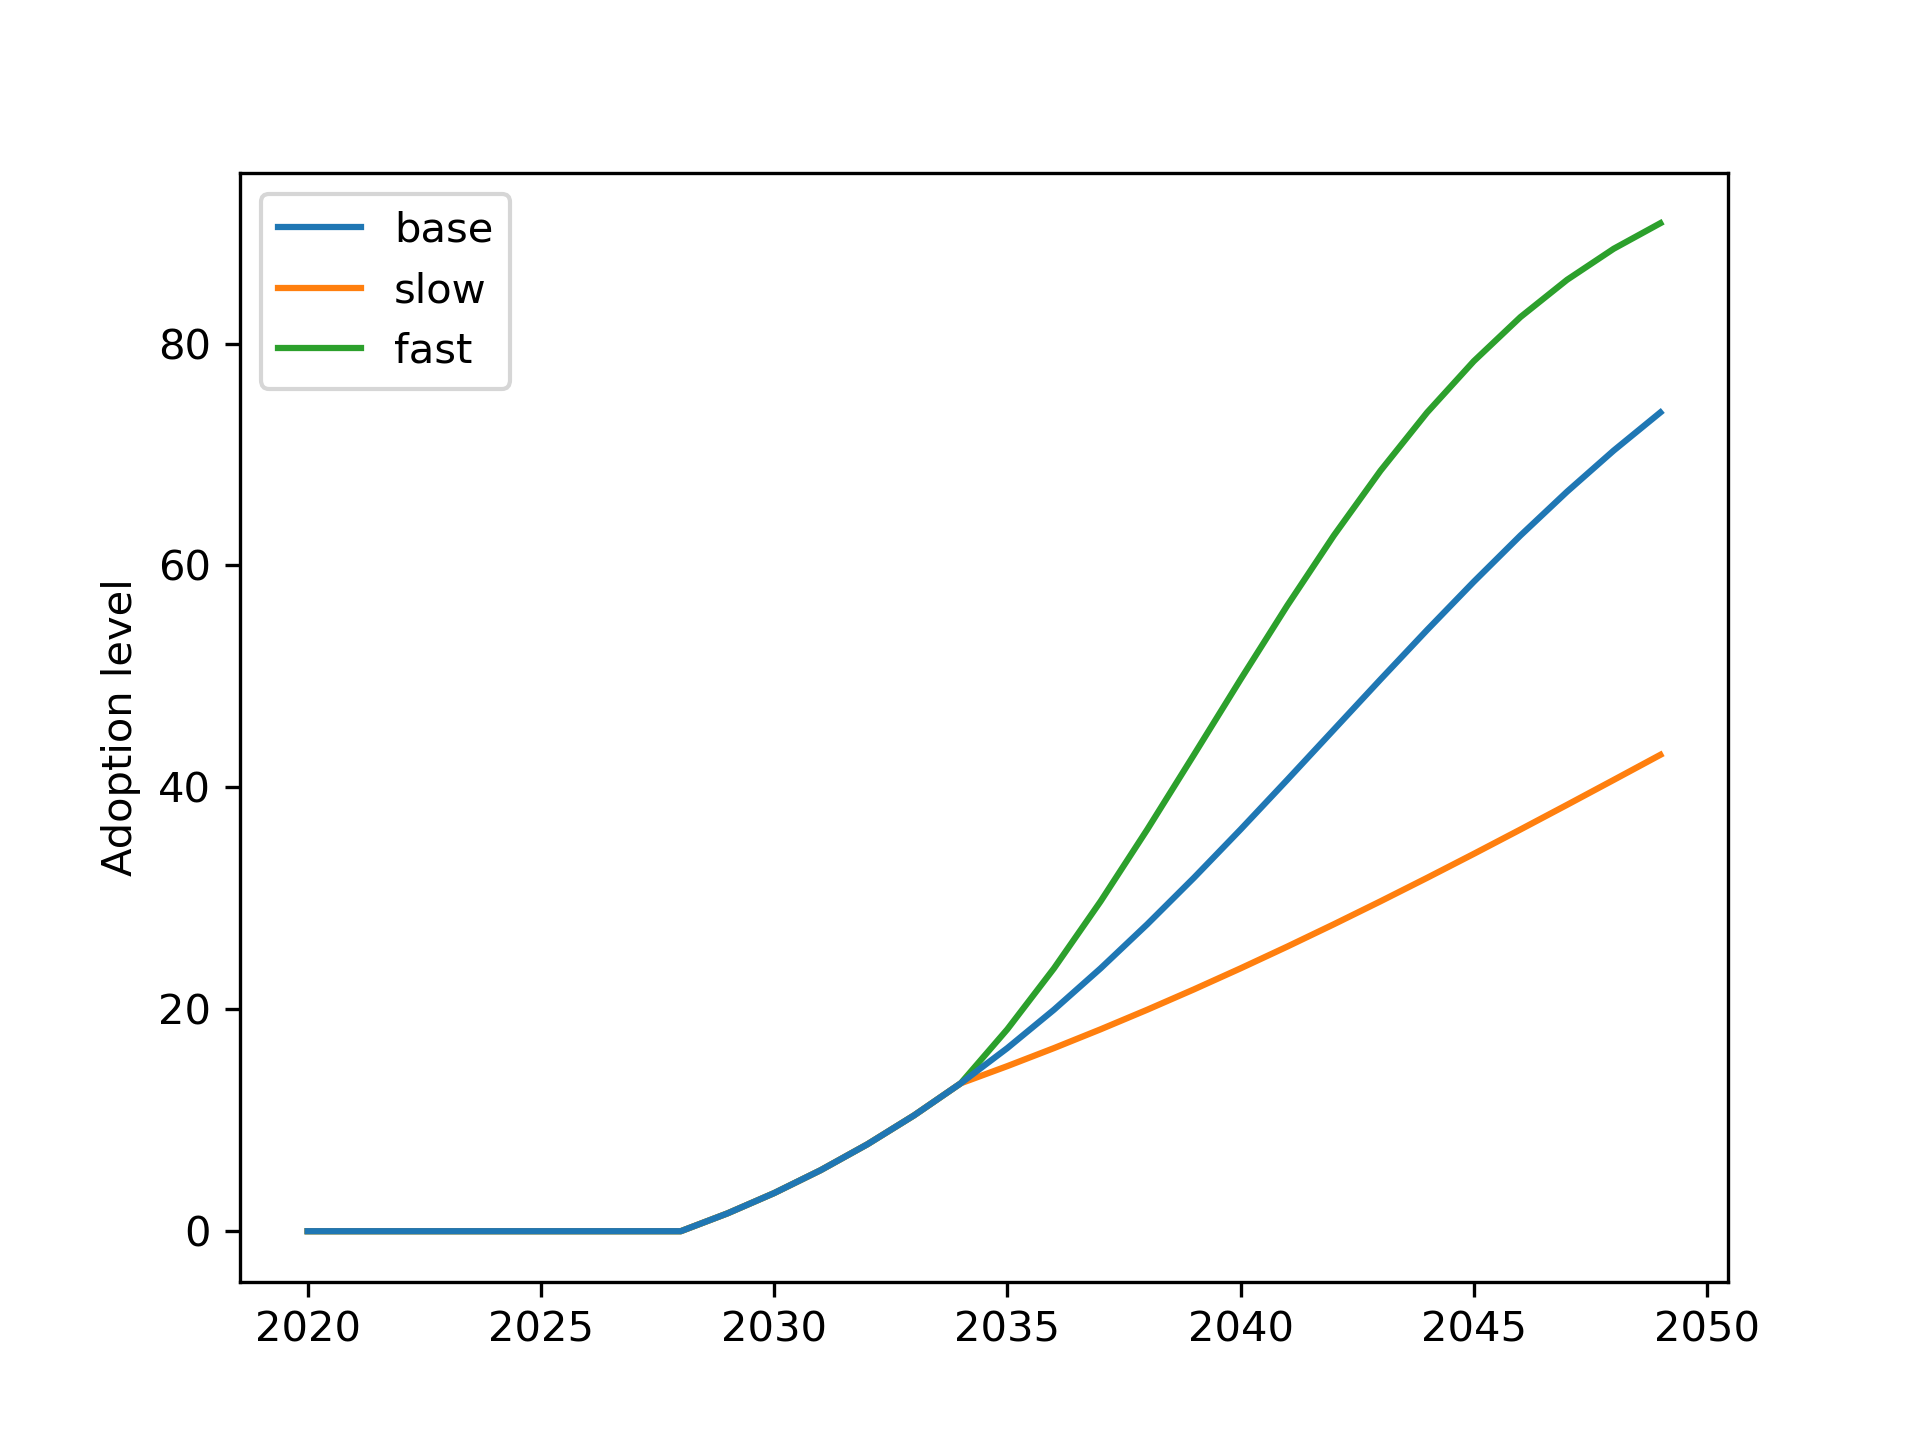
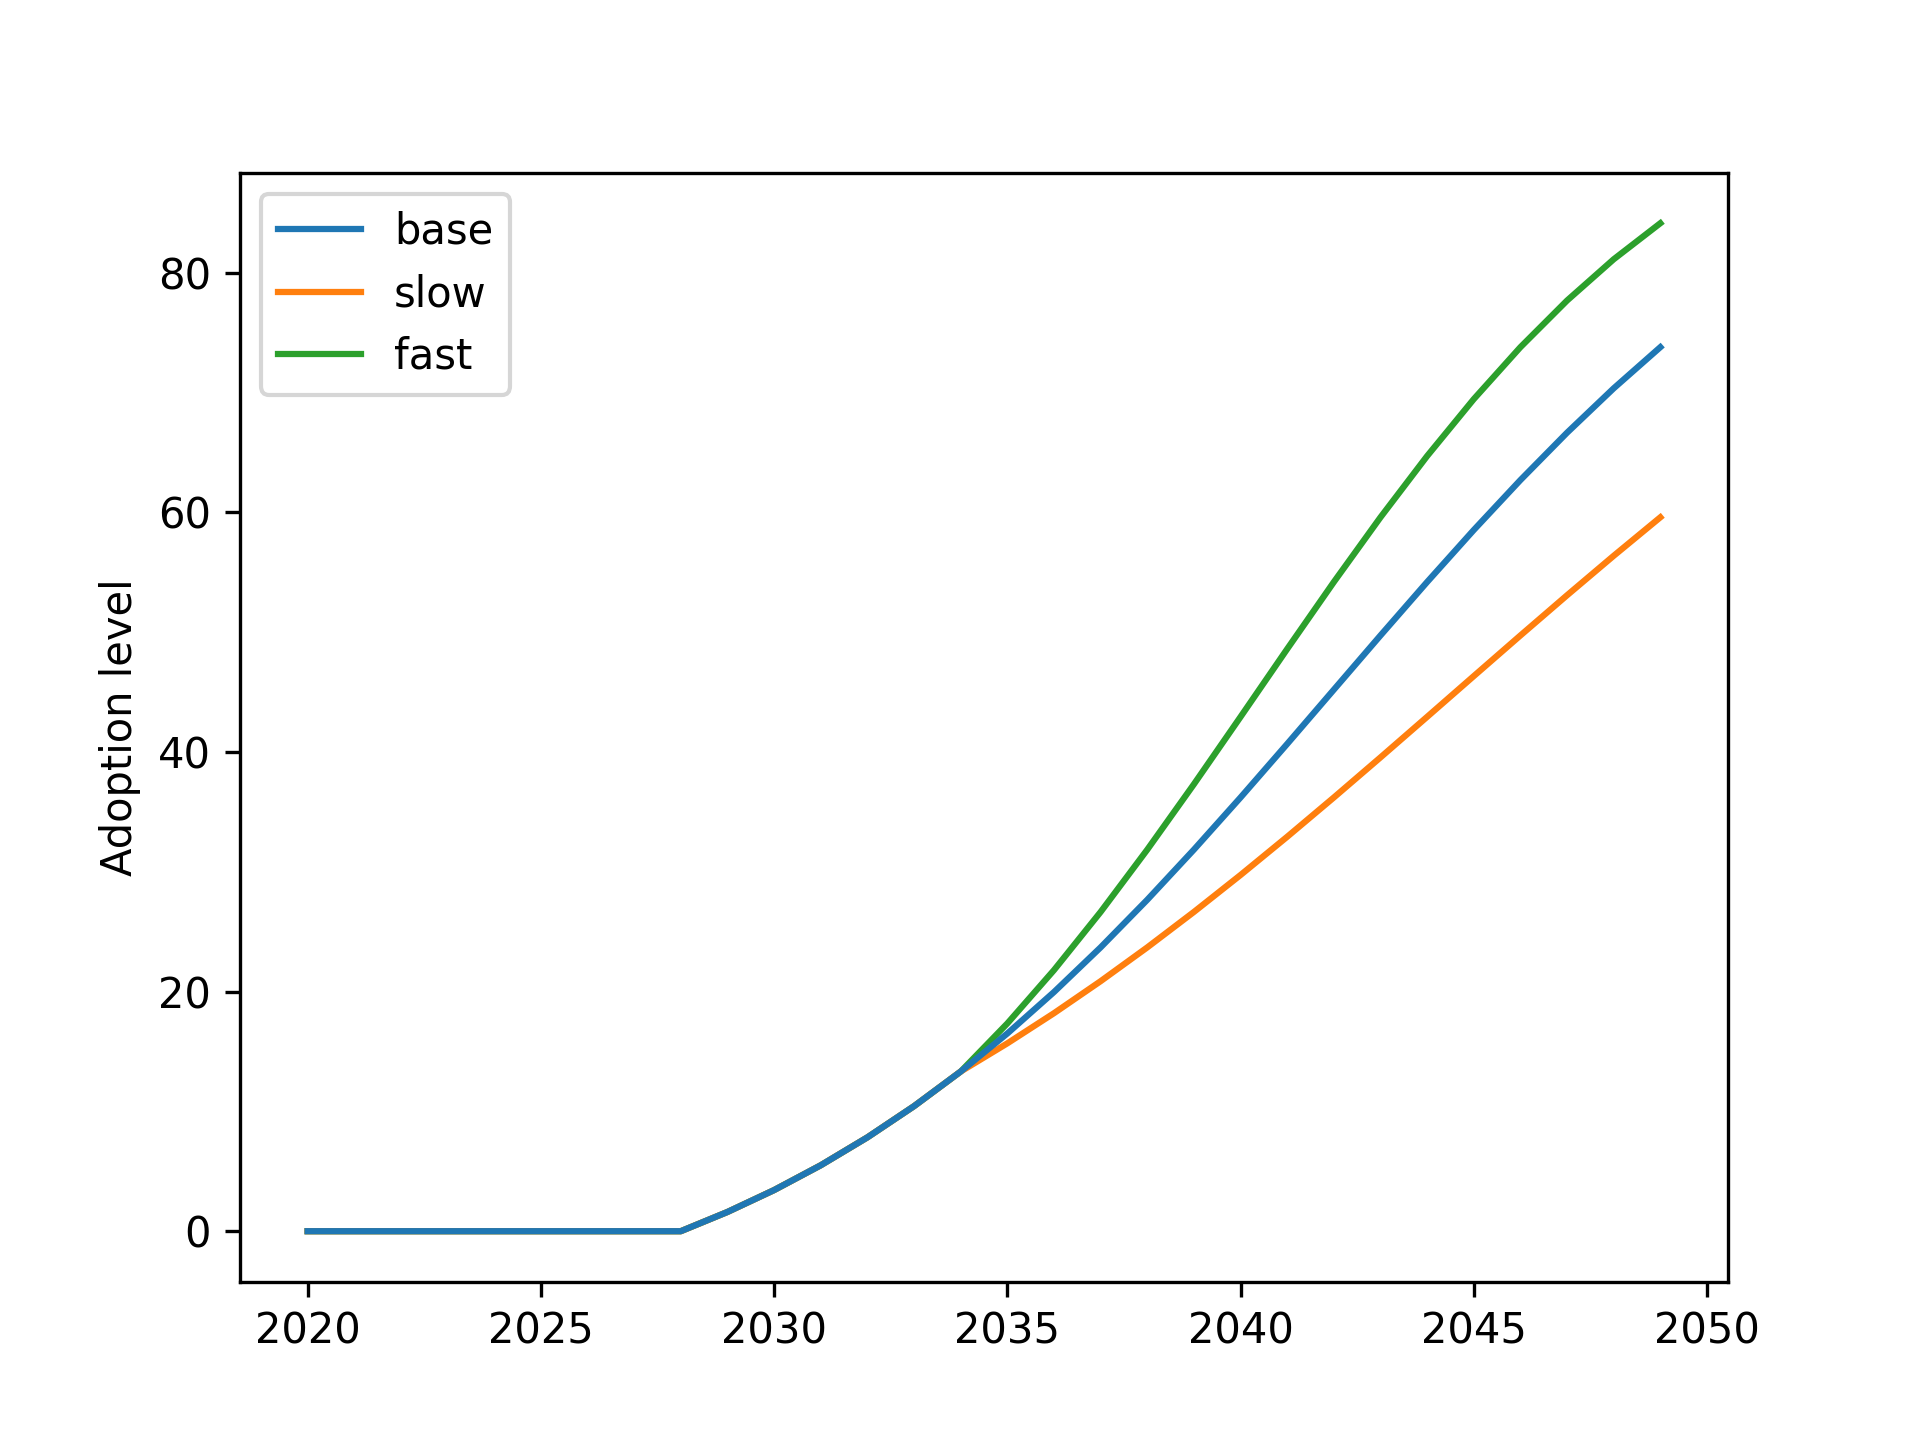
update to Bass

diff --git a/_plot_Bass.py b/_plot_Bass.py
@@ -11,8 +11,8 @@ start_year = 2028
 second_stage_start = 2034
 
 bassie_base = BassDiffusion(p_base, q_base, 100, t_0=start_year)
-bassie_slow = BassDiffusion(0.5*p_base, 0.5*q_base, 100, t_0=start_year)
-bassie_fast = BassDiffusion(1.5*p_base, 1.5*q_base, 100, t_0=start_year)
+bassie_slow = BassDiffusion(0.75*p_base, 0.75*q_base, 100, t_0=start_year)
+bassie_fast = BassDiffusion(1.25*p_base, 1.25*q_base, 100, t_0=start_year)
 
 A_base_second_stage = bassie_base.A(second_stage_start)
 
@@ -32,6 +32,9 @@ for i in range(len(t_vec)):
         A_slow[i] = bassie_slow.A_from_starting_point(t_vec[i], A_base_second_stage, second_stage_start)
         A_fast[i] = bassie_fast.A_from_starting_point(t_vec[i], A_base_second_stage, second_stage_start)
 
+#for spine in ['top', 'right']:
+#    ax.spines[spine].set_visible(False)
+
 plt.plot(t_vec, A_base, label = "base", zorder = 3)
 plt.plot(t_vec, A_slow, label = "slow", zorder = 2)
 plt.plot(t_vec, A_fast, label = "fast", zorder = 1)
@@ -40,7 +43,7 @@ plt.ylabel("Adoption level")
 
 plt.legend()
 
-plt.savefig("Plots/Bass/Bass_example.png", dpi=300)
+plt.savefig("Data/Plots/Bass/Bass_example.png", dpi=300)
 
 plt.show()
 
